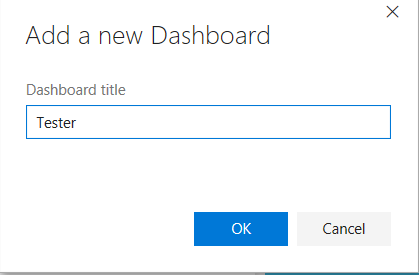
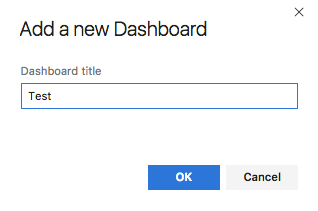
Updated exercise 6 to include more steps and explaination with updated screen shots.

diff --git a/labs/vsts/agile/readme.md b/labs/vsts/agile/readme.md
@@ -364,24 +364,67 @@ Dashboards allow teams to visualize status and monitor progress across the proje
 The Overview page provides access to a default team dashboard which you can customize by adding, removing, or rearranging the tiles.
 Each tile corresponds to a widget that provides access to one or more features or functions.
 
-1. Go to **Dashboard**
+1. Go to the default **Dashboard** called Overview.
 
    <img src="images/52.png" width="624" />
 
-2. Click on **edit** to modify the dashboard and add your widgets like **Build Summary, Release Summary, Markdowns etc**.
+   >The Overview page provides access to a default team dashboard which you can customize by adding, removing, or rearranging the tiles. Each tile corresponds to a widget that provides access to one or more features or functions.
 
-3. You can also add role based dashboards by clicking the **New +** button.
+2. You can also add dashboards. From the dashboards tab, click the plus icon and enter a dashboard name.
 
    <img src="images/53.png" />
 
+   With the dashboard selected, you can add a widget to the dashboard. Or, you can add a chart to a team dashboard from the Work, Build, or Test hubs.
+
    <img src="images/54.png" width="624" />
 
-4. You can also manage dashboard settings by adding permissions and auto-refresh functionalities.
+   When finished, click the **Close** button. Then click the checkmark to take the dashboard out of edit mode.
 
-   <img src="images/55.png" />
+3. Click on **edit** button to modify the dashboard and add your widgets like **Build Summary, Release Summary, Markdowns** etc..
 
-   <img src="images/56.png" />
+    <img src="images/101.png" width="624" />
 
+4. Add the **Query Tile** to the Test dashboard.
+
+    <img src="images/102.png" width="624" />
+
+5. After you add the widget, you may need to configure it. For example, to configure the **Query tile** widget, click the Configure widget icon to open the configuration dialog.
+
+    <img src="images/103.png" width="624" />
+
+6. Then select the query and specify any rules you want. 
+
+    <img src="images/104.png" width="624" />
+
+    >You can also add conditional formatting so the widget will visually alert the user.
+    <img src="images/105.png" width="624" />
+
+7. In addition to widgets, you can add a chart to your dashboard. You add an item to a dashboard from the code, work, and build pages. First, make sure you have the team context selected from the Queries page to which you want to add a query or chart. Go to the **Work** tab and click **Queries** on the top left.
+
+    <img src="images/106.png" width="624" />
+
+8. Select the query that you want to create the chart from and click the **Charts** option.
+
+    <img src="images/107.png" width="624" />
+
+9. Next, click the **New chart** option to bring up the configuration of the chart.
+
+    <img src="images/108.png" width="624" />
+
+10. And, you can add a chart to a team dashboard by clicking on the ellipsis and choosing **Add to dashboard** > select the dashbard you want to add the chart to in the context menu.
+
+    <img src="images/109.png" width="624" />
+    <img src="images/110.png" width="624" />
+
+11. You can move or delete a widget from the dashboard by clicking **Edit** dashboard icon to modify your dashboard. You can then drag tiles to reorder their sequence on the dashboard. To remove a widget, click the widget's **Trash** icon or **Delete** icon. When you're finished with your changes, click **Exit edit-dashboard-mode** icon to exit dashboard editing.
+
+    <img src="images/111.png" width="624" />
+
+12. You can rename, reorder, or delete a dashboard. Also, you can enable auto-refresh, and the dashboard will automatically update every 5 minutes.
+
+    <img src="images/55.png" />
+
+    <img src="images/56.png" />
 
 ## Exercise 7: Customization
 
